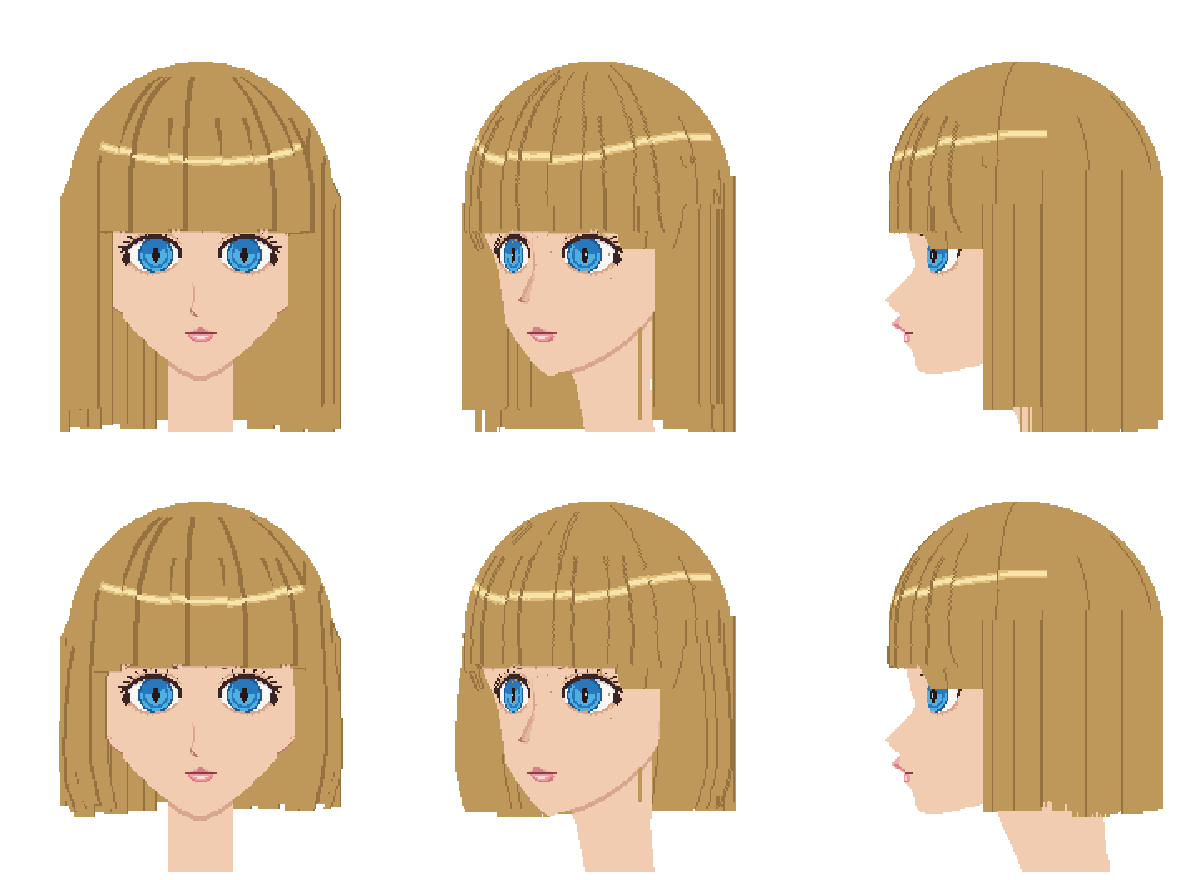
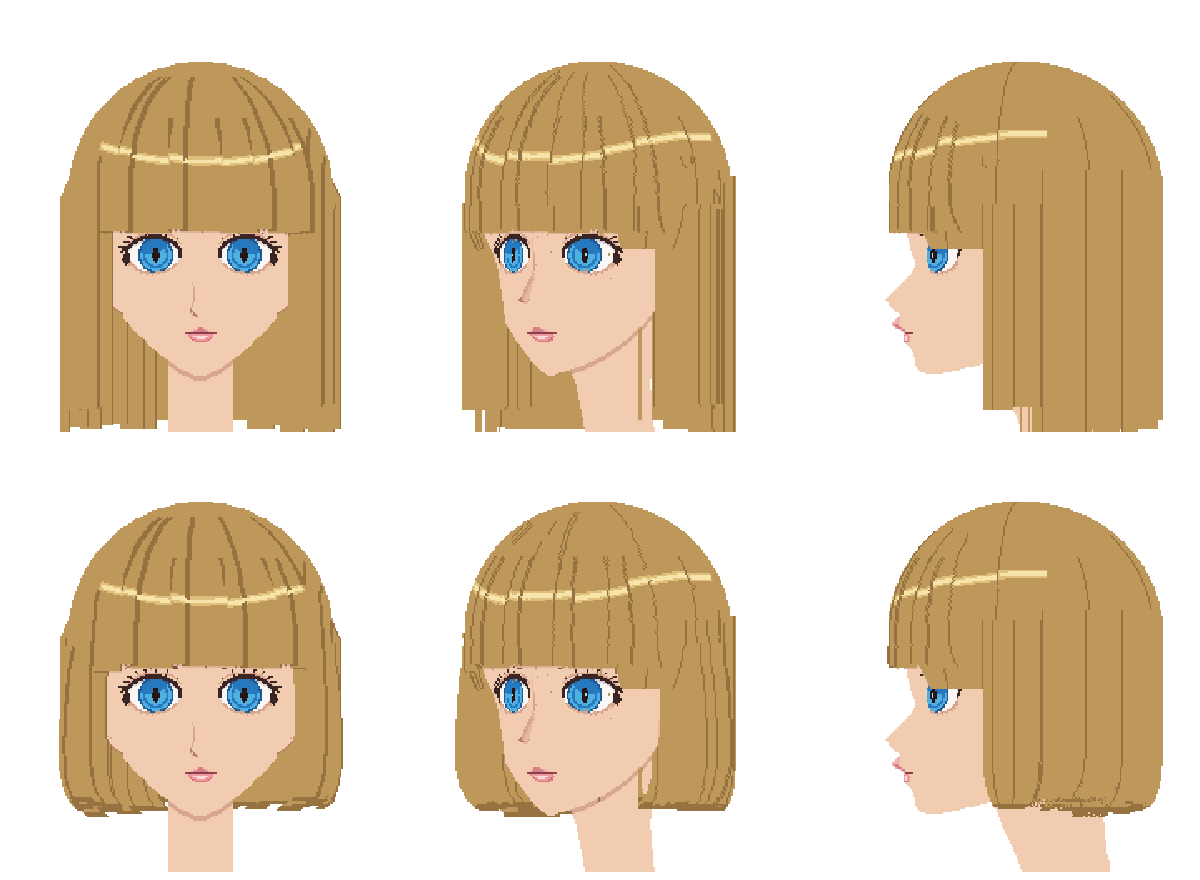
臉模 v2：鮑伯髮尾往內收（正面／斜臉／側面），髮尾底下 2 格暗
Claude-Session: https://claude.ai/code/session_01FDQv7ddy7JMjePn6AqJ3VJ

diff --git a/web/droom/face_mold/v2/hair_clumps.py b/web/droom/face_mold/v2/hair_clumps.py
@@ -13,6 +13,10 @@ C=dict(hi=(246,228,170),li=(222,192,124),mid=(190,152,90),sh=(150,114,64),dk=(11
 SKSH=(222,178,152)
 W=(128,36)
 BANG_Y=136 if HS!='bob' else 133
+CURL,CURLH=8,28   # 鮑伯髮尾往內收：最後 CURLH 格沿圓弧往內收 CURL 格（使用者 2026-11-19：鮑伯髮尾要往內收，不是直的）
+def bob_in(y,tip):
+  if HS!='bob':return 0
+  u=min(1,max(0,(y-(tip-CURLH))/CURLH));return CURL*(1-math.sqrt(1-u*u))
 def pm(pts):
   m=Image.new('L',(N,N),0);ImageDraw.Draw(m).polygon([(round(x),round(y)) for x,y in pts],fill=1);return np.array(m).astype(bool)
 def mer(phi,y):
@@ -52,18 +56,18 @@ def side_clumps(rnd):
       w=min(rnd.uniform(8,13),RO+1-abs(x-CX));xa,xb=(x,x+s*w) if s>0 else (x+s*w,x)
       ex=max(abs(xa-CX),abs(xb-CX))
       top=CY-math.sqrt(max(0,RO*RO-ex*ex))+6+rnd.uniform(0,3)   # 從頭頂那圈的邊緣下面長出來（不要在頭外面多出一個方角）
-      tip=bottom+rnd.uniform(-4,4);pointed=False
+      tip=bottom+(rnd.uniform(-2,2) if HS=='bob' else rnd.uniform(-4,4));pointed=False   # 鮑伯是剪齊的，長短差更少
       bulge=(4*math.sin(math.pi*(top-104)/130) if HS=='bob' else 0)
       lx=[(xa-.8,top)];rx=[(xb+.8,top)]
       for k in range(1,20):
         t=k/19;y=top+(tip-top)*t
         ob=s*(5*math.sin(math.pi*t*.85) if HS=='bob' else 0)       # 鮑伯：往外鼓
-        cur=s*(-4*max(0,t-.8)/.2 if HS=='bob' else 0)               # 鮑伯：髮尾往內捲
+        cur=-s*bob_in(y,tip)                                           # 鮑伯：髮尾往內收
         nar=(1-max(0,t-.85)/.15*.8) if pointed else 1
         cx=(xa+xb)/2+ob*abs(((xa+xb)/2-CX))/RO+cur;hw=(xb-xa)/2*nar
         lx.append((cx-hw,y));rx.append((cx+hw,y))
       pts=lx+[((xa+xb)/2+cur,tip+(3 if pointed else 0))]+rx[::-1]
-      out.append(Clump('side',pts,0 if i%2==0 else 1,i));x+=s*w*.85;i+=1
+      c=Clump('side',pts,0 if i%2==0 else 1,i);c.tip=tip;out.append(c);x+=s*w*.85;i+=1
   return out
 def back_clumps(rnd):
   out=[];bottom=256 if HS!='bob' else 222
@@ -74,8 +78,9 @@ def back_clumps(rnd):
       xb=min(xb,CX+RO+4);xa=max(xa,CX-RO-4)
       tip=bottom-rnd.uniform(0,10)
       cy=lambda X:CY-math.sqrt(max(0,RO*RO-min(RO,abs(X-CX))**2))+3     # 從頭頂那圈裡面長出來，不在頭外面多一個方角
-      pts=[(xa-1,cy(xa)),(xb+1,cy(xb)),(xb+1,tip),(xa-1,tip)]   # 下面平的
-      out.append(Clump('back',pts,0,len(out)));x+=s*w*.8
+      yb=np.linspace(cy(xb),tip,30);ya=np.linspace(cy(xa),tip,30)[::-1]   # 左右兩邊各從自己那點的頭頂圈開始（不然外側多一個角）
+      pts=[(xb+1-s*bob_in(y,tip),y) for y in yb]+[(xa-1-s*bob_in(y,tip),y) for y in ya]   # 下面平的；鮑伯髮尾往內收
+      c=Clump('back',pts,0,len(out));c.tip=tip;out.append(c);x+=s*w*.8
   return out
 def build():
   rnd=random.Random(7 if HS!='bob' else 11)
@@ -108,6 +113,13 @@ def render(img,stage):
     out[m]=C['mid'];hairmask|=m
     redge=m&~np.roll(m,-1,1)&~np.roll(m,-2,1)
     out[redge&(yy>ylim)]=C['sh']                             # 背光那側一格暗（跟影子同樣長）
+  if HS=='bob':
+    for cl in sides+backs:
+      m=cl.mask&(white|hairmask) if cl.kind=='back' else cl.mask
+      if cl.kind=='side' or True:
+        und=m&(yy>=cl.tip-2)
+        if cl.kind=='back':und&=white
+        out[und]=C['sh']
   # 瀏海投在額頭的影子
   allb=np.zeros((N,N),bool)
   for cl in bangs:allb|=cl.mask

diff --git a/web/droom/face_mold/v2/hair3dc.py b/web/droom/face_mold/v2/hair3dc.py
@@ -26,7 +26,7 @@ def samples():
   bang_layer={cl.rid:cl.layer for cl in bangs}
   bcuts=[-14];zz=-14
   while zz>-100:zz-=rnd.choice([18,22,26]);bcuts.append(zz)
-  P=[]
+  P=[];U=HC.HS=='bob'                               # 鮑伯：髮尾底下 2 格暗（收進去那面）
   for y in np.arange(CY-RO+.25,CY+48,.5):
     dy=y-CY;r=math.sqrt(max(0,RO*RO-dy*dy))
     if r<1:continue
@@ -54,7 +54,8 @@ def samples():
         if Yp<CY+8 and x*x+(Yp-CY)**2+zf*zf<(RO-1)**2:continue   # 在頭頂那圈裡面＝被蓋住，不取（側面看上端才順著頭的圓）
         zb=sum(1 for c in zcuts if c<=zf)
         sid=('side',zb,1 if x>0 else -1)               # 轉過去看到的是前後那幾刀（左右照片分會在每格跳來跳去、變成雜線）
-        P.append((x,Yp,zf,sid,cl.layer));P.append((x+.5,Yp+.5,zf,sid,cl.layer))
+        a=HC.bob_in(Yp,cl.tip);zq=5+(zf-5)*(1-a/14)          # 鮑伯：髮尾前後也往內收（側面看前緣往後、後緣往前）
+        P.append((x,Yp,zq,sid,cl.layer,U and Yp>=cl.tip-2));P.append((x+.5,Yp+.5,zq,sid,cl.layer,U and Yp+.5>=cl.tip-2))
   for cl in backs:                                  # 後髮：頭後面往下垂，前後也切
     rows=np.nonzero(cl.mask.any(1))[0]
     for Yp in rows:
@@ -64,23 +65,26 @@ def samples():
         x=X-128;zo=-math.sqrt(max(0,(RO+2)**2-x*x))*BACK
         for f in(1,.8,.6,.4):
           bid=('back',sum(1 for c in bcuts if c>=zo*f))   # 後髮也照前後深度切（照片分的話側面看每一格都換片、變成一堆直線）
-          for o in(0,.5):P.append((x+o,Yp,zo*f,bid,0));P.append((x+o,Yp+.5,zo*f,bid,0))
+          a=HC.bob_in(Yp,cl.tip);zq=zo*f+a*1.6                  # 鮑伯：後髮髮尾往脖子那邊收
+          for o in(0,.5):P.append((x+o,Yp,zq,bid,0,U and Yp>=cl.tip-2));P.append((x+o,Yp+.5,zq,bid,0,U and Yp+.5>=cl.tip-2))
   return P
 def render(img,deg,cx):
   a=math.radians(deg);ca,sa=math.cos(a),math.sin(a)
   HD=head_depth(deg,cx);white=(img==255).all(2)
   zb={};info={}
-  for x,y,z,cid,layer in samples():
+  und={}
+  for p in samples():
+    x,y,z,cid,layer=p[:5]
     X=int(math.floor(cx+x*ca-z*sa));Yp=int(math.floor(y));d=x*sa+z*ca
     if not(0<=X<N and 0<=Yp<N):continue
     k=(X,Yp);db=d+{'bang':2,'side':3,'lon':0,'back':-5}[cid[0]]   # 前後差不多時：瀏海、鬢髮在前，後髮在後（不然每格跳來跳去變雜線）
-    if k not in zb or db>zb[k][0]:zb[k]=(db,d);info[k]=(cid,layer,x,y,z)
+    if k not in zb or db>zb[k][0]:zb[k]=(db,d);info[k]=(cid,layer,x,y,z);und[k]=len(p)>5 and p[5]
   out=img.copy();vis={}
   for k,(db,d) in zb.items():
     X,Yp=k;cid,layer,x,y,z=info[k]
     near=cid[0]=='side' and x*sa>0            # 近側鬢髮一定在臉前面
     if white[Yp,X] or near or d>=HD[Yp,X]-1.5:
-      out[Yp,X]=C['mid'];vis[k]=info[k]
+      out[Yp,X]=C['sh'] if und[k] else C['mid'];vis[k]=info[k]
   # 片的邊：背光側（右）一格暗；疊在別片上 → 在下面那片投影子（右下）
   # 跟正面一樣：只有約 45% 的分界一路到頭頂，其他只畫中下段；孤立的點不畫（取樣跳動造成的雜點）
   rf=random.Random(13);full={}
